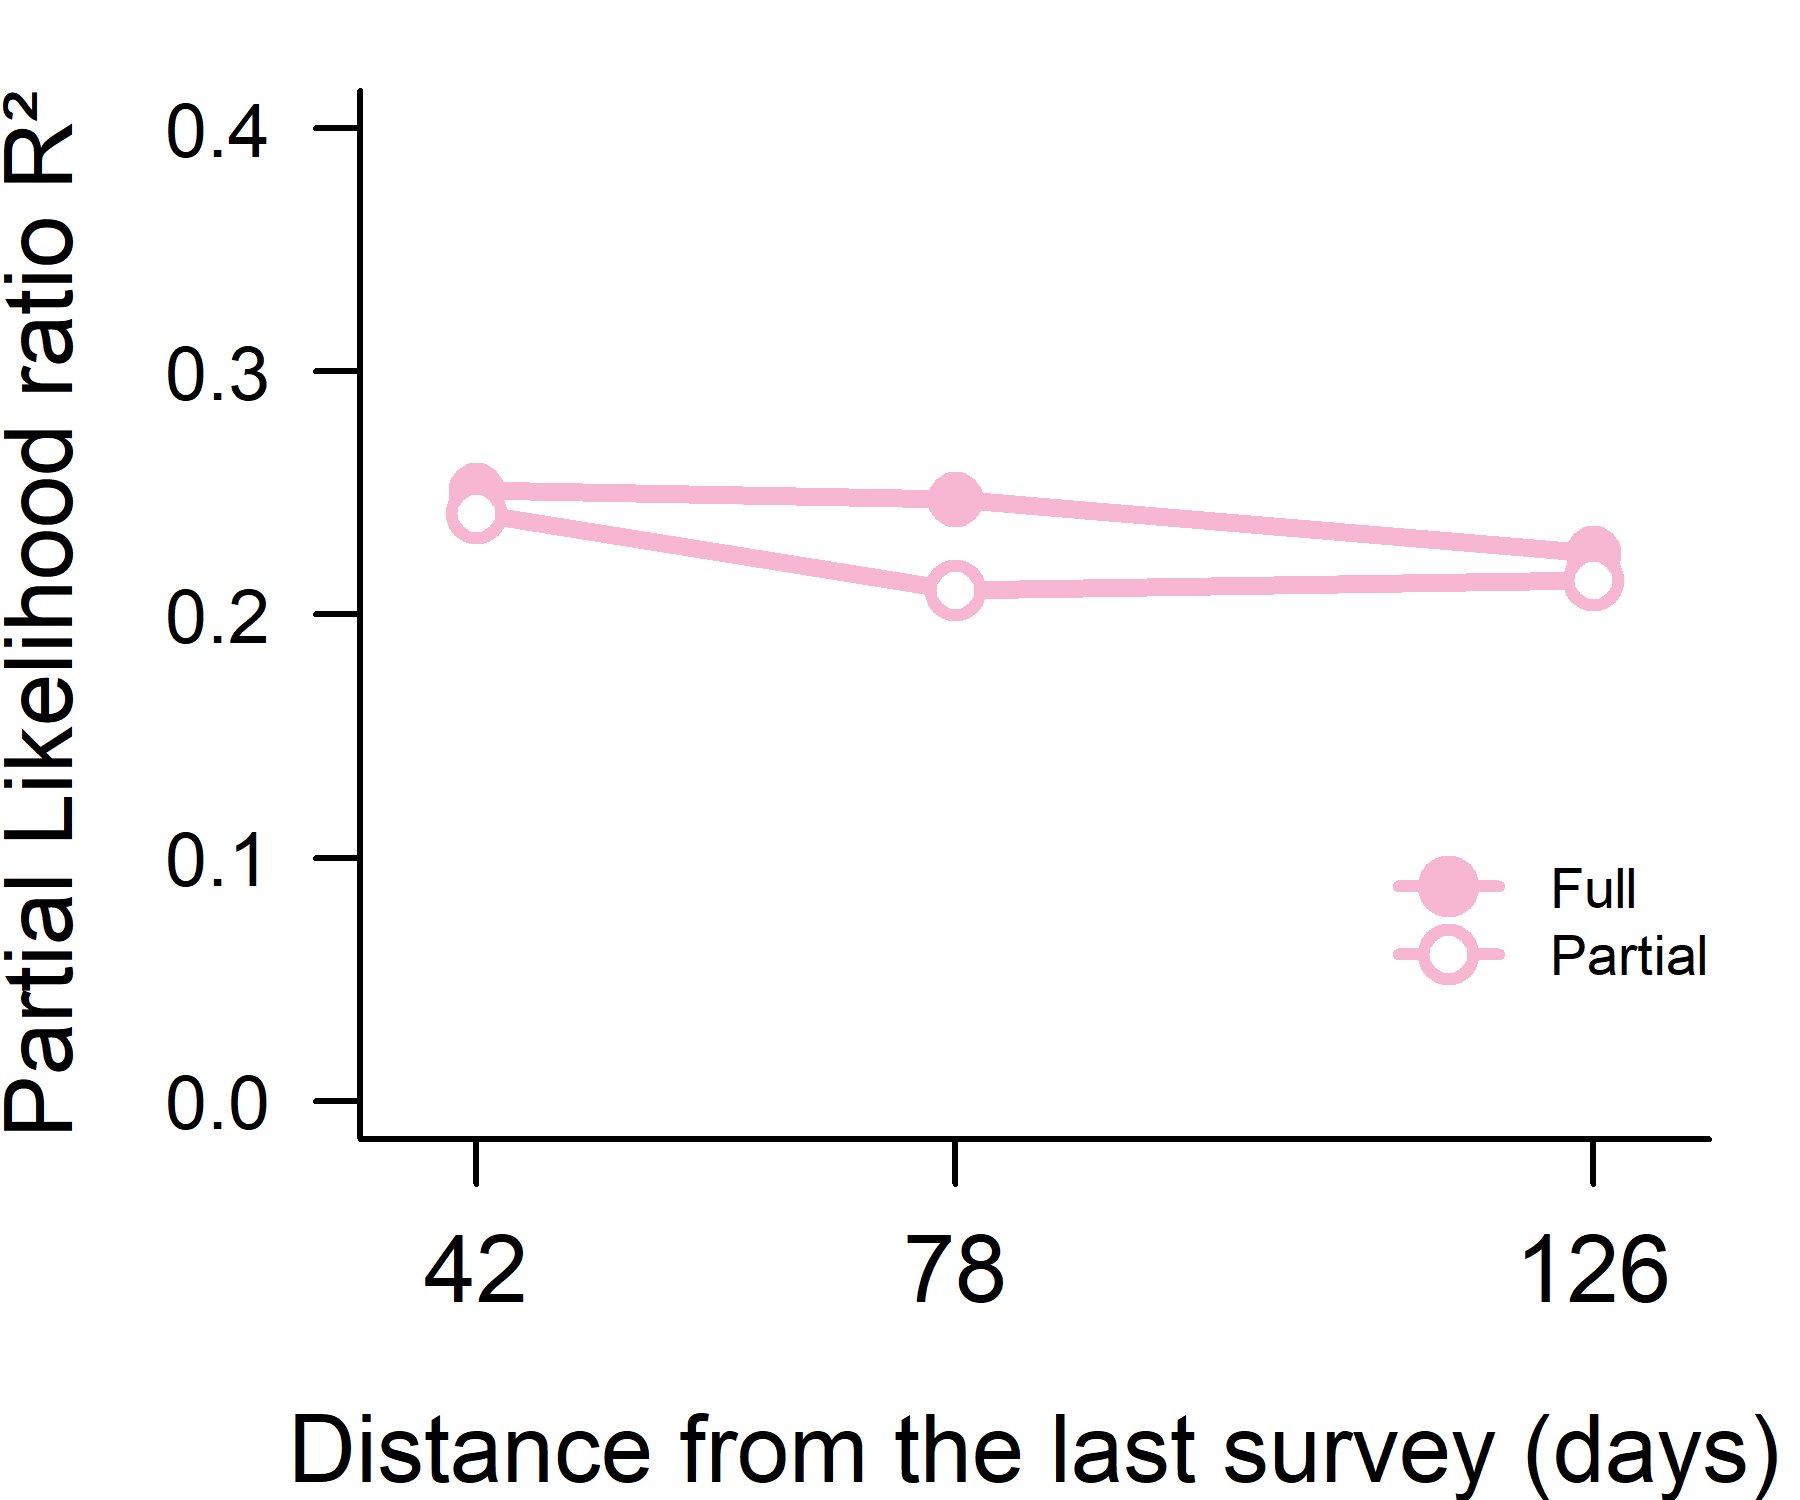
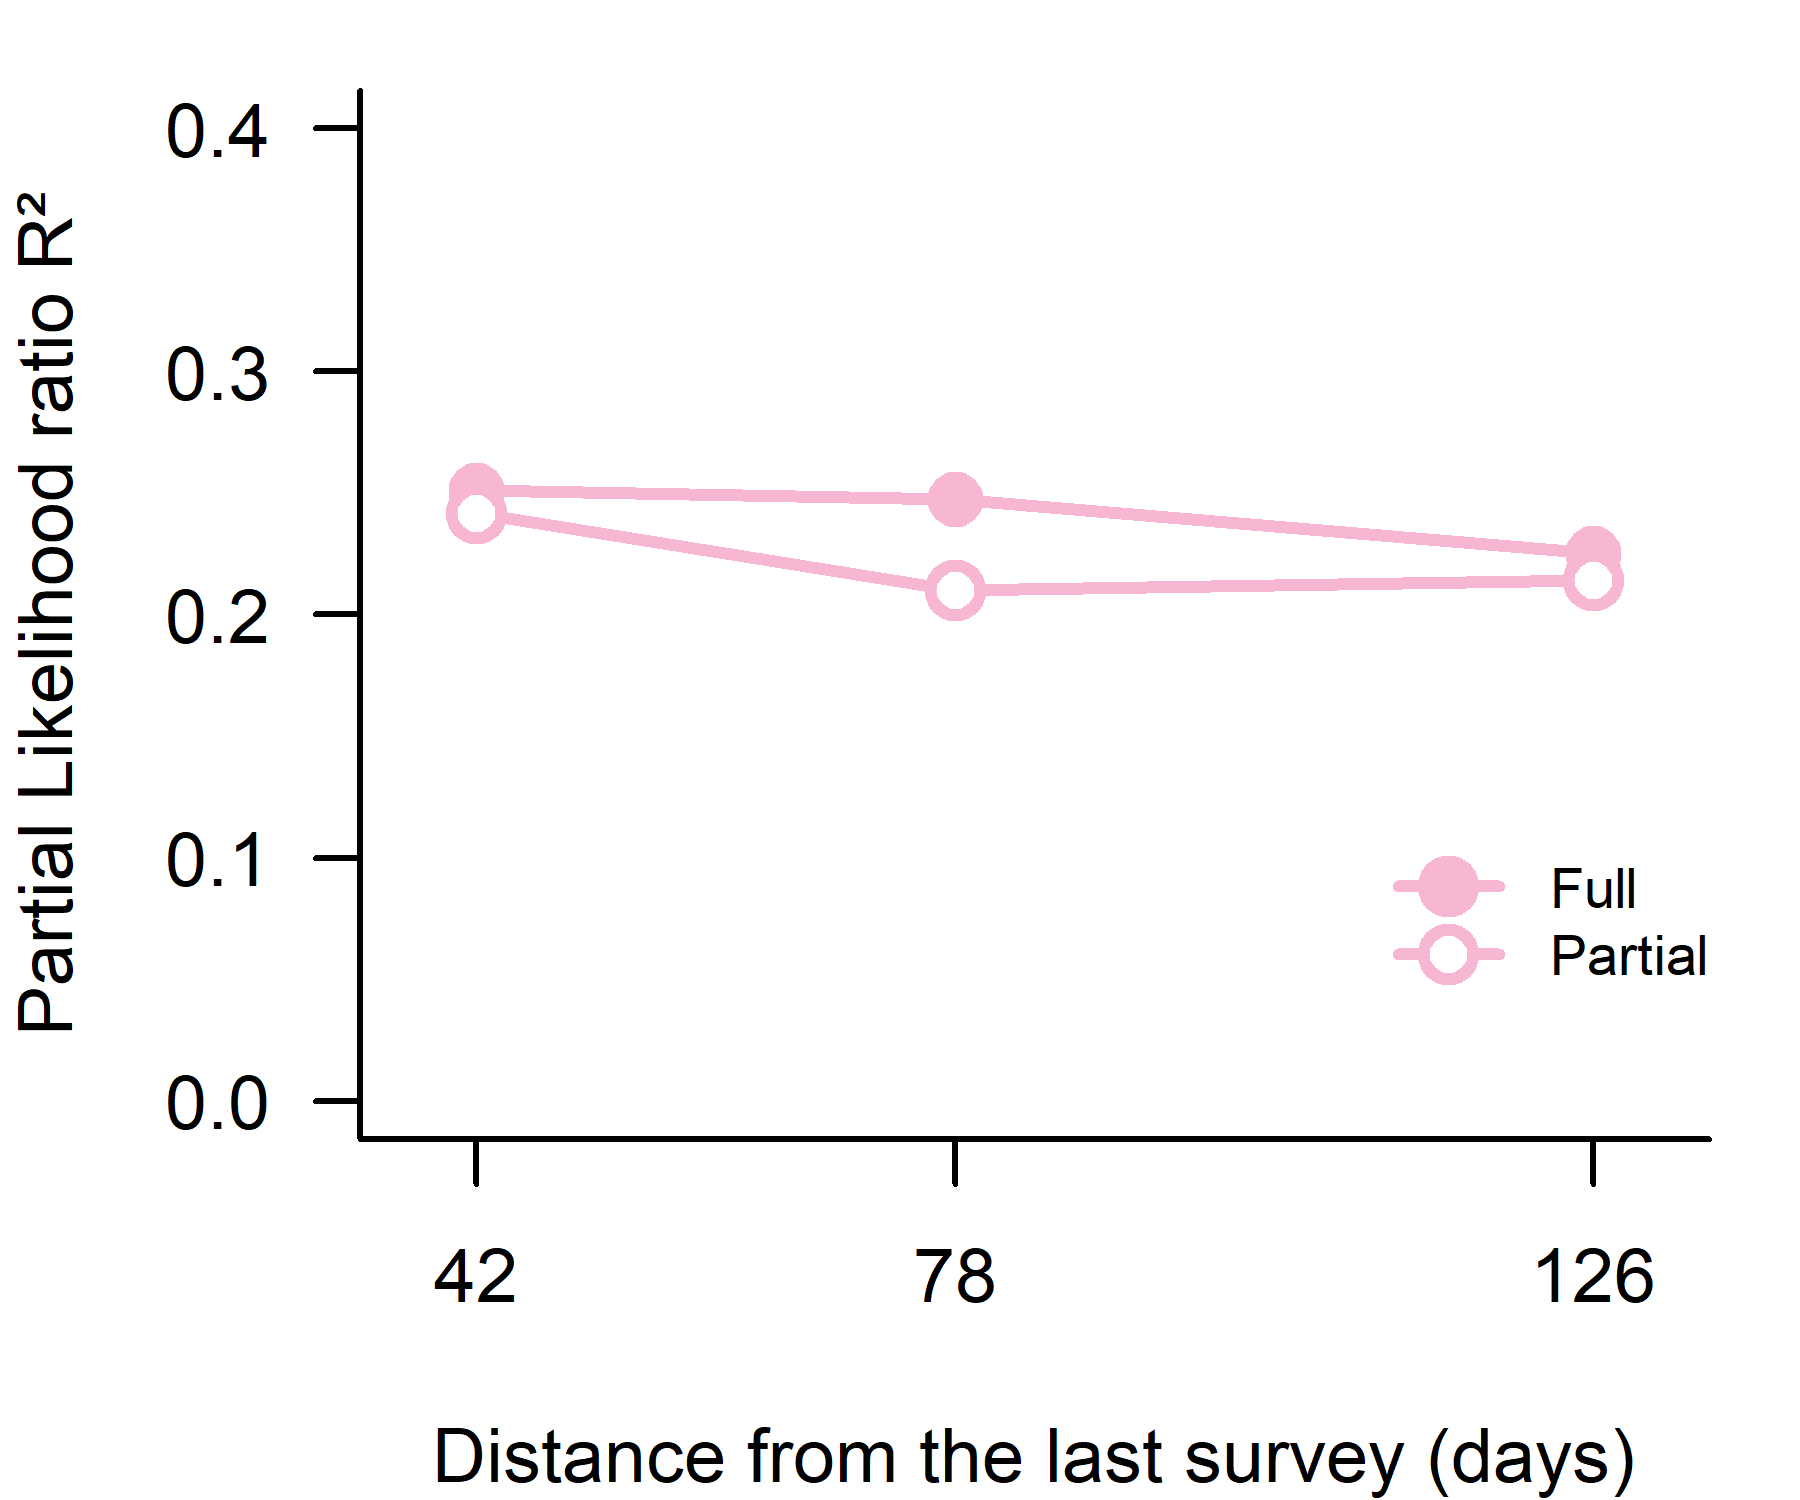
Small figure update again

diff --git a/Markdowns/Variation_partitioning_first_last.md b/Markdowns/Variation_partitioning_first_last.md
@@ -472,114 +472,12 @@ par(mar = c(4,4,1,1), bty = "l")
 plot(NA,xlim = c(42-5, 126 + 5), ylim = c(0, 0.4), xaxt = "n", yaxt = "n", ylab = "", xlab = "")
 lines(x = c(158 - 116, 158 - 80, 158 - 32), y = c(varpart_priority_AM3_reduced$R2_fractions_com[3,1],
                                                   varpart_priority_AM2_reduced$R2_fractions_com[3,1],
-                                                  varpart_priority_AM1_reduced$R2_fractions_com[3,1]), col = cols[3], lwd = 3)
+                                                  varpart_priority_AM1_reduced$R2_fractions_com[3,1]), col = cols[3], lwd = 2)
 
 
 lines(x = c(158 - 116, 158 - 80, 158 - 32), y = c(varpart_priority_AM3_reduced$R2_fractions_com[3,2],
                                                   varpart_priority_AM2_reduced$R2_fractions_com[3,2],
-                                                  varpart_priority_AM1_reduced$R2_fractions_com[3,2]), col = cols[3], lwd = 3)
-
-
-
-
-points(x = c(158 - 116, 158 - 80, 158 - 32), y = c(varpart_priority_AM3_reduced$R2_fractions_com[3,1],
-                                                  varpart_priority_AM2_reduced$R2_fractions_com[3,1],
-                                                  varpart_priority_AM1_reduced$R2_fractions_com[3,1]), col = cols[3], bg = cols[3], pch = c(21,21,21), cex = 1.5)
-
-
-points(x = c(158 - 116, 158 - 80, 158 - 32), y = c(varpart_priority_AM3_reduced$R2_fractions_com[3,2],
-                                                  varpart_priority_AM2_reduced$R2_fractions_com[3,2],
-                                                  varpart_priority_AM1_reduced$R2_fractions_com[3,2]), col = cols[3],  bg = "white", pch = c(21,21,21), cex = 1.5, lwd = 2)
-
-
-
-axis(2, las = 2, line = 0, labels = TRUE)
-axis(1, at = c(158 - 116, 158 - 80, 158 - 32),cex.axis = 1.25)
-
-title(xlab = "Distance from the last survey (days)", cex.lab = 1.25)
-title(ylab = "Partial Likelihood ratio R²", cex.lab = 1.25)
-
-
-par(new = TRUE, mar = c(0,0,0,0), bty = "n")
-plot(NA,xlim = c(0, 100), ylim = c(0, 100), xaxt = "n", yaxt = "n", ylab = "", xlab = "")
-legend(x = 100, y = 45, xjust = 1, yjust = 1, legend = c("Full", "Partial"), pch = c(21,21), pt.bg = c(cols[3],"white"), col = cols[3], pt.cex = 1.5, lwd = 2, bty = "n", cex = 0.75)
-```
-
-![](Variation_partitioning_first_last_files/figure-gfm/unnamed-chunk-12-1.png)<!-- -->
-
-``` r
-#dev.off()
-```
-
-``` r
-cols <- c("#98DF8A", "#9EDAE5", "#F7B6D2")
-names(cols) <- c("Block", "Env", "Priority")
-
-
-#svg(file = "C:/Users/rodol/OneDrive/repos/PrioEff_TimeOfAssembly/Plots/Community structure analysis/prior_effec_time.svg", width = 3, height = 2.5, pointsize = 9)
-
-
-par(mar = c(4,4,1,1), bty = "l")
-plot(NA,xlim = c(42-5, 126 + 5), ylim = c(0, 0.5), xaxt = "n", yaxt = "n", ylab = "", xlab = "")
-
-
-#lines(x = c(158 - 116, 158 - 80, 158 - 32), y = c(varpart_priority_AM3_reduced$R2_fractions_com[1,1],
-#                                                  varpart_priority_AM2_reduced$R2_fractions_com[1,1],
-#                                                  varpart_priority_AM1_reduced$R2_fractions_com[1,1]), col = cols[1], lwd = 3)
-
-
-lines(x = c(158 - 116, 158 - 80, 158 - 32), y = c(varpart_priority_AM3_reduced$R2_fractions_com[1,2],
-                                                  varpart_priority_AM2_reduced$R2_fractions_com[1,2],
-                                                  varpart_priority_AM1_reduced$R2_fractions_com[1,2]), col = cols[1], lwd = 3)
-
-
-
-
-#points(x = c(158 - 116, 158 - 80, 158 - 32), y = c(varpart_priority_AM3_reduced$R2_fractions_com[1,1],
-#                                                  varpart_priority_AM2_reduced$R2_fractions_com[1,1],
-#                                                  varpart_priority_AM1_reduced$R2_fractions_com[1,1]), col = cols[1],pch = c(16,16,16), cex = 2)
-
-
-points(x = c(158 - 116, 158 - 80, 158 - 32), y = c(varpart_priority_AM3_reduced$R2_fractions_com[1,2],
-                                                  varpart_priority_AM2_reduced$R2_fractions_com[1,2],
-                                                  varpart_priority_AM1_reduced$R2_fractions_com[1,2]), col = cols[1],  bg = "white", pch = c(21,21,21), cex = 1.5, lwd = 2)
-
-##############################################
-
-#lines(x = c(158 - 116, 158 - 80, 158 - 32), y = c(varpart_priority_AM3_reduced$R2_fractions_com[2,1],
-#                                                  varpart_priority_AM2_reduced$R2_fractions_com[2,1],
-#                                                  varpart_priority_AM1_reduced$R2_fractions_com[2,1]), col = cols[2], lwd = 3)
-
-
-lines(x = c(158 - 116, 158 - 80, 158 - 32), y = c(varpart_priority_AM3_reduced$R2_fractions_com[2,2],
-                                                  varpart_priority_AM2_reduced$R2_fractions_com[2,2],
-                                                  varpart_priority_AM1_reduced$R2_fractions_com[2,2]), col = cols[2], lwd = 3)
-
-
-
-
-#points(x = c(158 - 116, 158 - 80, 158 - 32), y = c(varpart_priority_AM3_reduced$R2_fractions_com[2,1],
-#                                                  varpart_priority_AM2_reduced$R2_fractions_com[2,1],
-#                                                  varpart_priority_AM1_reduced$R2_fractions_com[2,1]), col = cols[2],pch = c(16,16,16), cex = 2)
-
-
-points(x = c(158 - 116, 158 - 80, 158 - 32), y = c(varpart_priority_AM3_reduced$R2_fractions_com[2,2],
-                                                  varpart_priority_AM2_reduced$R2_fractions_com[2,2],
-                                                  varpart_priority_AM1_reduced$R2_fractions_com[2,2]), col = cols[2],  bg = "white", pch = c(21,21,21), cex = 1.5, lwd = 2)
-
-
-##############################################
-
-
-
-lines(x = c(158 - 116, 158 - 80, 158 - 32), y = c(varpart_priority_AM3_reduced$R2_fractions_com[3,1],
-                                                  varpart_priority_AM2_reduced$R2_fractions_com[3,1],
-                                                  varpart_priority_AM1_reduced$R2_fractions_com[3,1]), col = cols[3], lwd = 3)
-
-
-lines(x = c(158 - 116, 158 - 80, 158 - 32), y = c(varpart_priority_AM3_reduced$R2_fractions_com[3,2],
-                                                  varpart_priority_AM2_reduced$R2_fractions_com[3,2],
-                                                  varpart_priority_AM1_reduced$R2_fractions_com[3,2]), col = cols[3], lwd = 3)
+                                                  varpart_priority_AM1_reduced$R2_fractions_com[3,2]), col = cols[3], lwd = 2)
 
 
 
@@ -604,9 +502,111 @@ title(ylab = "Partial Likelihood ratio R²", cex.lab = 1)
 
 par(new = TRUE, mar = c(0,0,0,0), bty = "n")
 plot(NA,xlim = c(0, 100), ylim = c(0, 100), xaxt = "n", yaxt = "n", ylab = "", xlab = "")
+legend(x = 100, y = 45, xjust = 1, yjust = 1, legend = c("Full", "Partial"), pch = c(21,21), pt.bg = c(cols[3],"white"), col = cols[3], pt.cex = 1.5, lwd = 2, bty = "n", cex = 0.75)
+```
+
+![](Variation_partitioning_first_last_files/figure-gfm/unnamed-chunk-12-1.png)<!-- -->
+
+``` r
+#dev.off()
+```
+
+``` r
+cols <- c("#98DF8A", "#9EDAE5", "#F7B6D2")
+names(cols) <- c("Block", "Env", "Priority")
+
+
+#svg(file = "C:/Users/rodol/OneDrive/repos/PrioEff_TimeOfAssembly/Plots/Community structure analysis/prior_effec_time.svg", width = 3, height = 2.5, pointsize = 9)
+
+
+par(mar = c(4,4,1,1), bty = "l")
+plot(NA,xlim = c(42-5, 126 + 5), ylim = c(0, 0.35), xaxt = "n", yaxt = "n", ylab = "", xlab = "")
+
+
+#lines(x = c(158 - 116, 158 - 80, 158 - 32), y = c(varpart_priority_AM3_reduced$R2_fractions_com[1,1],
+#                                                  varpart_priority_AM2_reduced$R2_fractions_com[1,1],
+#                                                  varpart_priority_AM1_reduced$R2_fractions_com[1,1]), col = cols[1], lwd = 3)
+
+
+lines(x = c(158 - 116, 158 - 80, 158 - 32), y = c(varpart_priority_AM3_reduced$R2_fractions_com[1,2],
+                                                  varpart_priority_AM2_reduced$R2_fractions_com[1,2],
+                                                  varpart_priority_AM1_reduced$R2_fractions_com[1,2]), col = cols[1], lwd = 2)
+
+
+
+
+#points(x = c(158 - 116, 158 - 80, 158 - 32), y = c(varpart_priority_AM3_reduced$R2_fractions_com[1,1],
+#                                                  varpart_priority_AM2_reduced$R2_fractions_com[1,1],
+#                                                  varpart_priority_AM1_reduced$R2_fractions_com[1,1]), col = cols[1],pch = c(16,16,16), cex = 2)
+
+
+points(x = c(158 - 116, 158 - 80, 158 - 32), y = c(varpart_priority_AM3_reduced$R2_fractions_com[1,2],
+                                                  varpart_priority_AM2_reduced$R2_fractions_com[1,2],
+                                                  varpart_priority_AM1_reduced$R2_fractions_com[1,2]), col = cols[1],  bg = "white", pch = c(21,21,21), cex = 1.5, lwd = 2)
+
+##############################################
+
+#lines(x = c(158 - 116, 158 - 80, 158 - 32), y = c(varpart_priority_AM3_reduced$R2_fractions_com[2,1],
+#                                                  varpart_priority_AM2_reduced$R2_fractions_com[2,1],
+#                                                  varpart_priority_AM1_reduced$R2_fractions_com[2,1]), col = cols[2], lwd = 3)
+
+
+lines(x = c(158 - 116, 158 - 80, 158 - 32), y = c(varpart_priority_AM3_reduced$R2_fractions_com[2,2],
+                                                  varpart_priority_AM2_reduced$R2_fractions_com[2,2],
+                                                  varpart_priority_AM1_reduced$R2_fractions_com[2,2]), col = cols[2], lwd = 2)
+
+
+
+
+#points(x = c(158 - 116, 158 - 80, 158 - 32), y = c(varpart_priority_AM3_reduced$R2_fractions_com[2,1],
+#                                                  varpart_priority_AM2_reduced$R2_fractions_com[2,1],
+#                                                  varpart_priority_AM1_reduced$R2_fractions_com[2,1]), col = cols[2],pch = c(16,16,16), cex = 2)
+
+
+points(x = c(158 - 116, 158 - 80, 158 - 32), y = c(varpart_priority_AM3_reduced$R2_fractions_com[2,2],
+                                                  varpart_priority_AM2_reduced$R2_fractions_com[2,2],
+                                                  varpart_priority_AM1_reduced$R2_fractions_com[2,2]), col = cols[2],  bg = "white", pch = c(21,21,21), cex = 1.5, lwd = 2)
+
+
+##############################################
+
+
+
+#lines(x = c(158 - 116, 158 - 80, 158 - 32), y = c(varpart_priority_AM3_reduced$R2_fractions_com[3,1],
+#                                                  varpart_priority_AM2_reduced$R2_fractions_com[3,1],
+#                                                  varpart_priority_AM1_reduced$R2_fractions_com[3,1]), col = cols[3], lwd = 3)
+
+
+lines(x = c(158 - 116, 158 - 80, 158 - 32), y = c(varpart_priority_AM3_reduced$R2_fractions_com[3,2],
+                                                  varpart_priority_AM2_reduced$R2_fractions_com[3,2],
+                                                  varpart_priority_AM1_reduced$R2_fractions_com[3,2]), col = cols[3], lwd = 2)
+
+
+
+
+#points(x = c(158 - 116, 158 - 80, 158 - 32), y = c(varpart_priority_AM3_reduced$R2_fractions_com[3,1],
+#                                                  varpart_priority_AM2_reduced$R2_fractions_com[3,1],
+#                                                  varpart_priority_AM1_reduced$R2_fractions_com[3,1]), col = cols[3], bg = cols[3], pch = c(21,21,21), cex = 1.5)
+
+
+points(x = c(158 - 116, 158 - 80, 158 - 32), y = c(varpart_priority_AM3_reduced$R2_fractions_com[3,2],
+                                                  varpart_priority_AM2_reduced$R2_fractions_com[3,2],
+                                                  varpart_priority_AM1_reduced$R2_fractions_com[3,2]), col = cols[3],  bg = "white", pch = c(21,21,21), cex = 1.5, lwd = 2)
+
+
+
+axis(2, las = 2, line = 0, labels = TRUE)
+axis(1, at = c(158 - 116, 158 - 80, 158 - 32),cex.axis = 1)
+
+title(xlab = "Distance from the last survey (days)", cex.lab = 1)
+title(ylab = "Partial Likelihood ratio R²", cex.lab = 1)
+
+
+par(new = TRUE, mar = c(0,0,0,0), bty = "n")
+plot(NA,xlim = c(0, 100), ylim = c(0, 100), xaxt = "n", yaxt = "n", ylab = "", xlab = "")
 legend(x = 100, y = 100, xjust = 1, yjust = 1,
-       legend = c("Previous structure (Full) ", "Previous structure (Partial)",  "Blocks (Partial)" ,"Water parameters (Partial)"),
-       pch = c(21,21, 21, 21), pt.bg = c(cols[3],"white","white","white"), col = c(cols[3], cols[3], cols[1], cols[2]), pt.cex = 1.5, lwd = 2, bty = "n", cex = 0.75)
+       legend = c("Blocks" ,"Water parameters", "Previous structure"),
+       pch = c(21,21, 21, 21), pt.bg = c("white","white","white"), col = cols, pt.cex = 1.5, lwd = 2, bty = "n", cex = 0.75)
 ```
 
 ![](Variation_partitioning_first_last_files/figure-gfm/unnamed-chunk-13-1.png)<!-- -->
